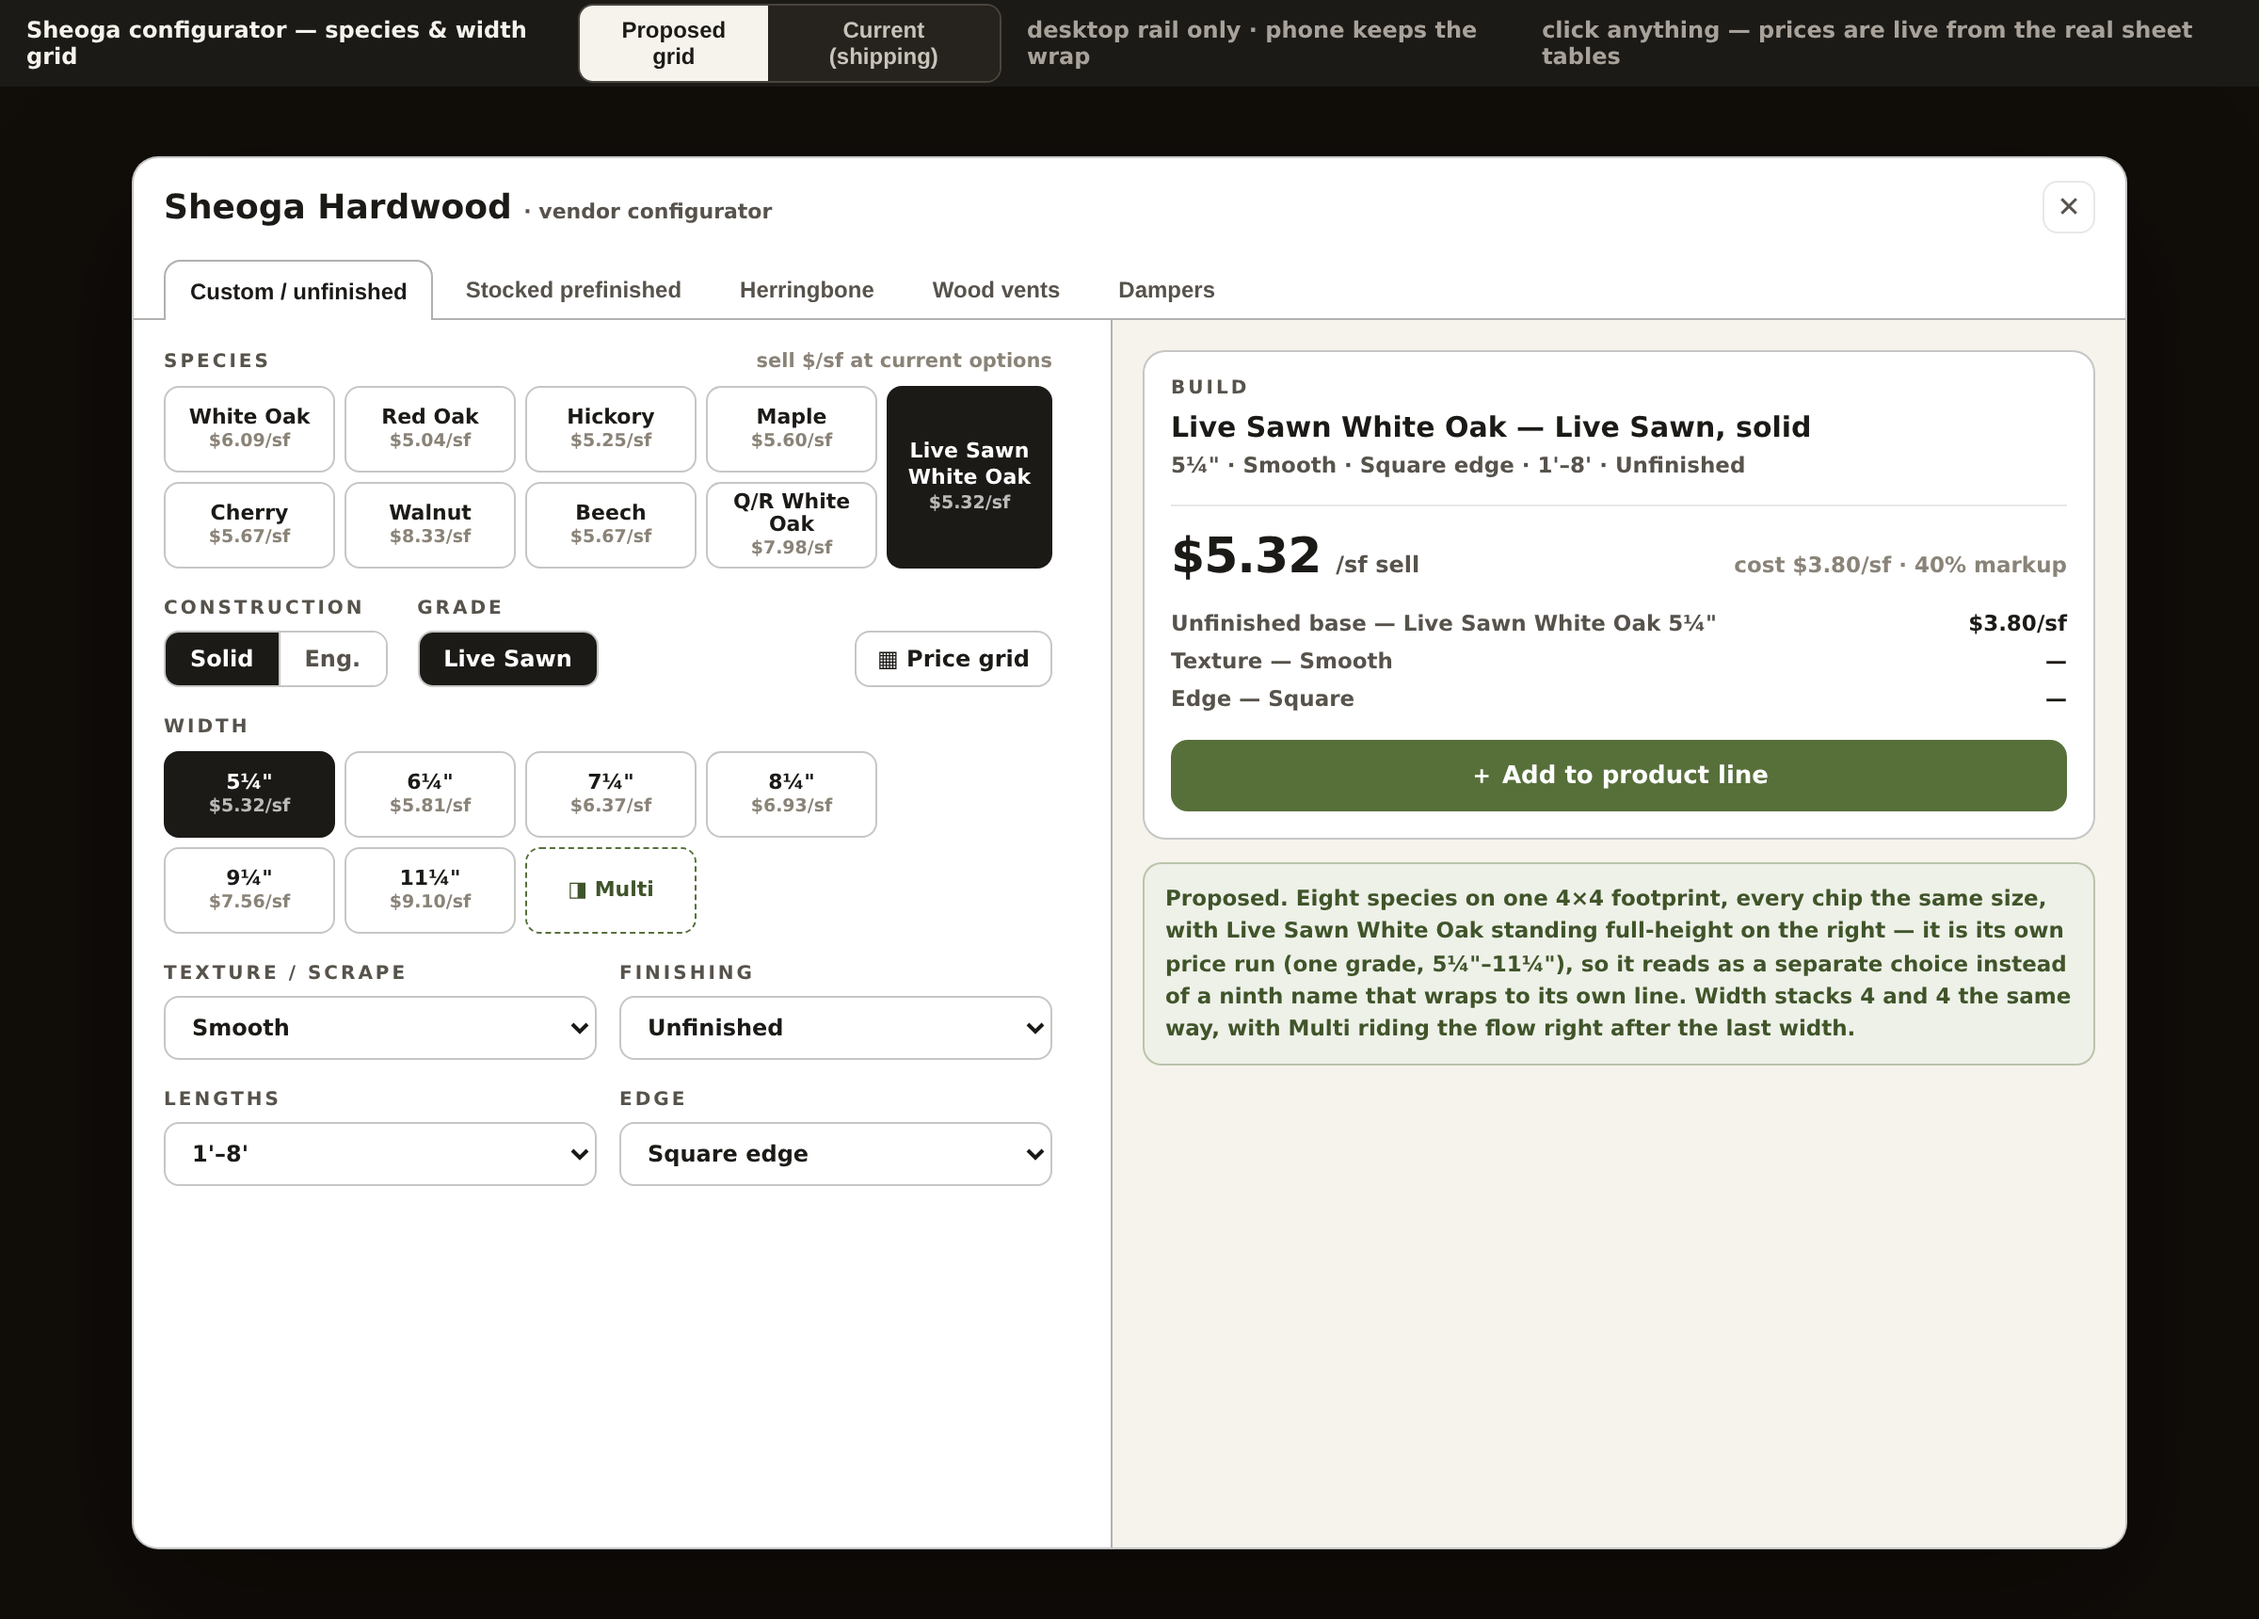
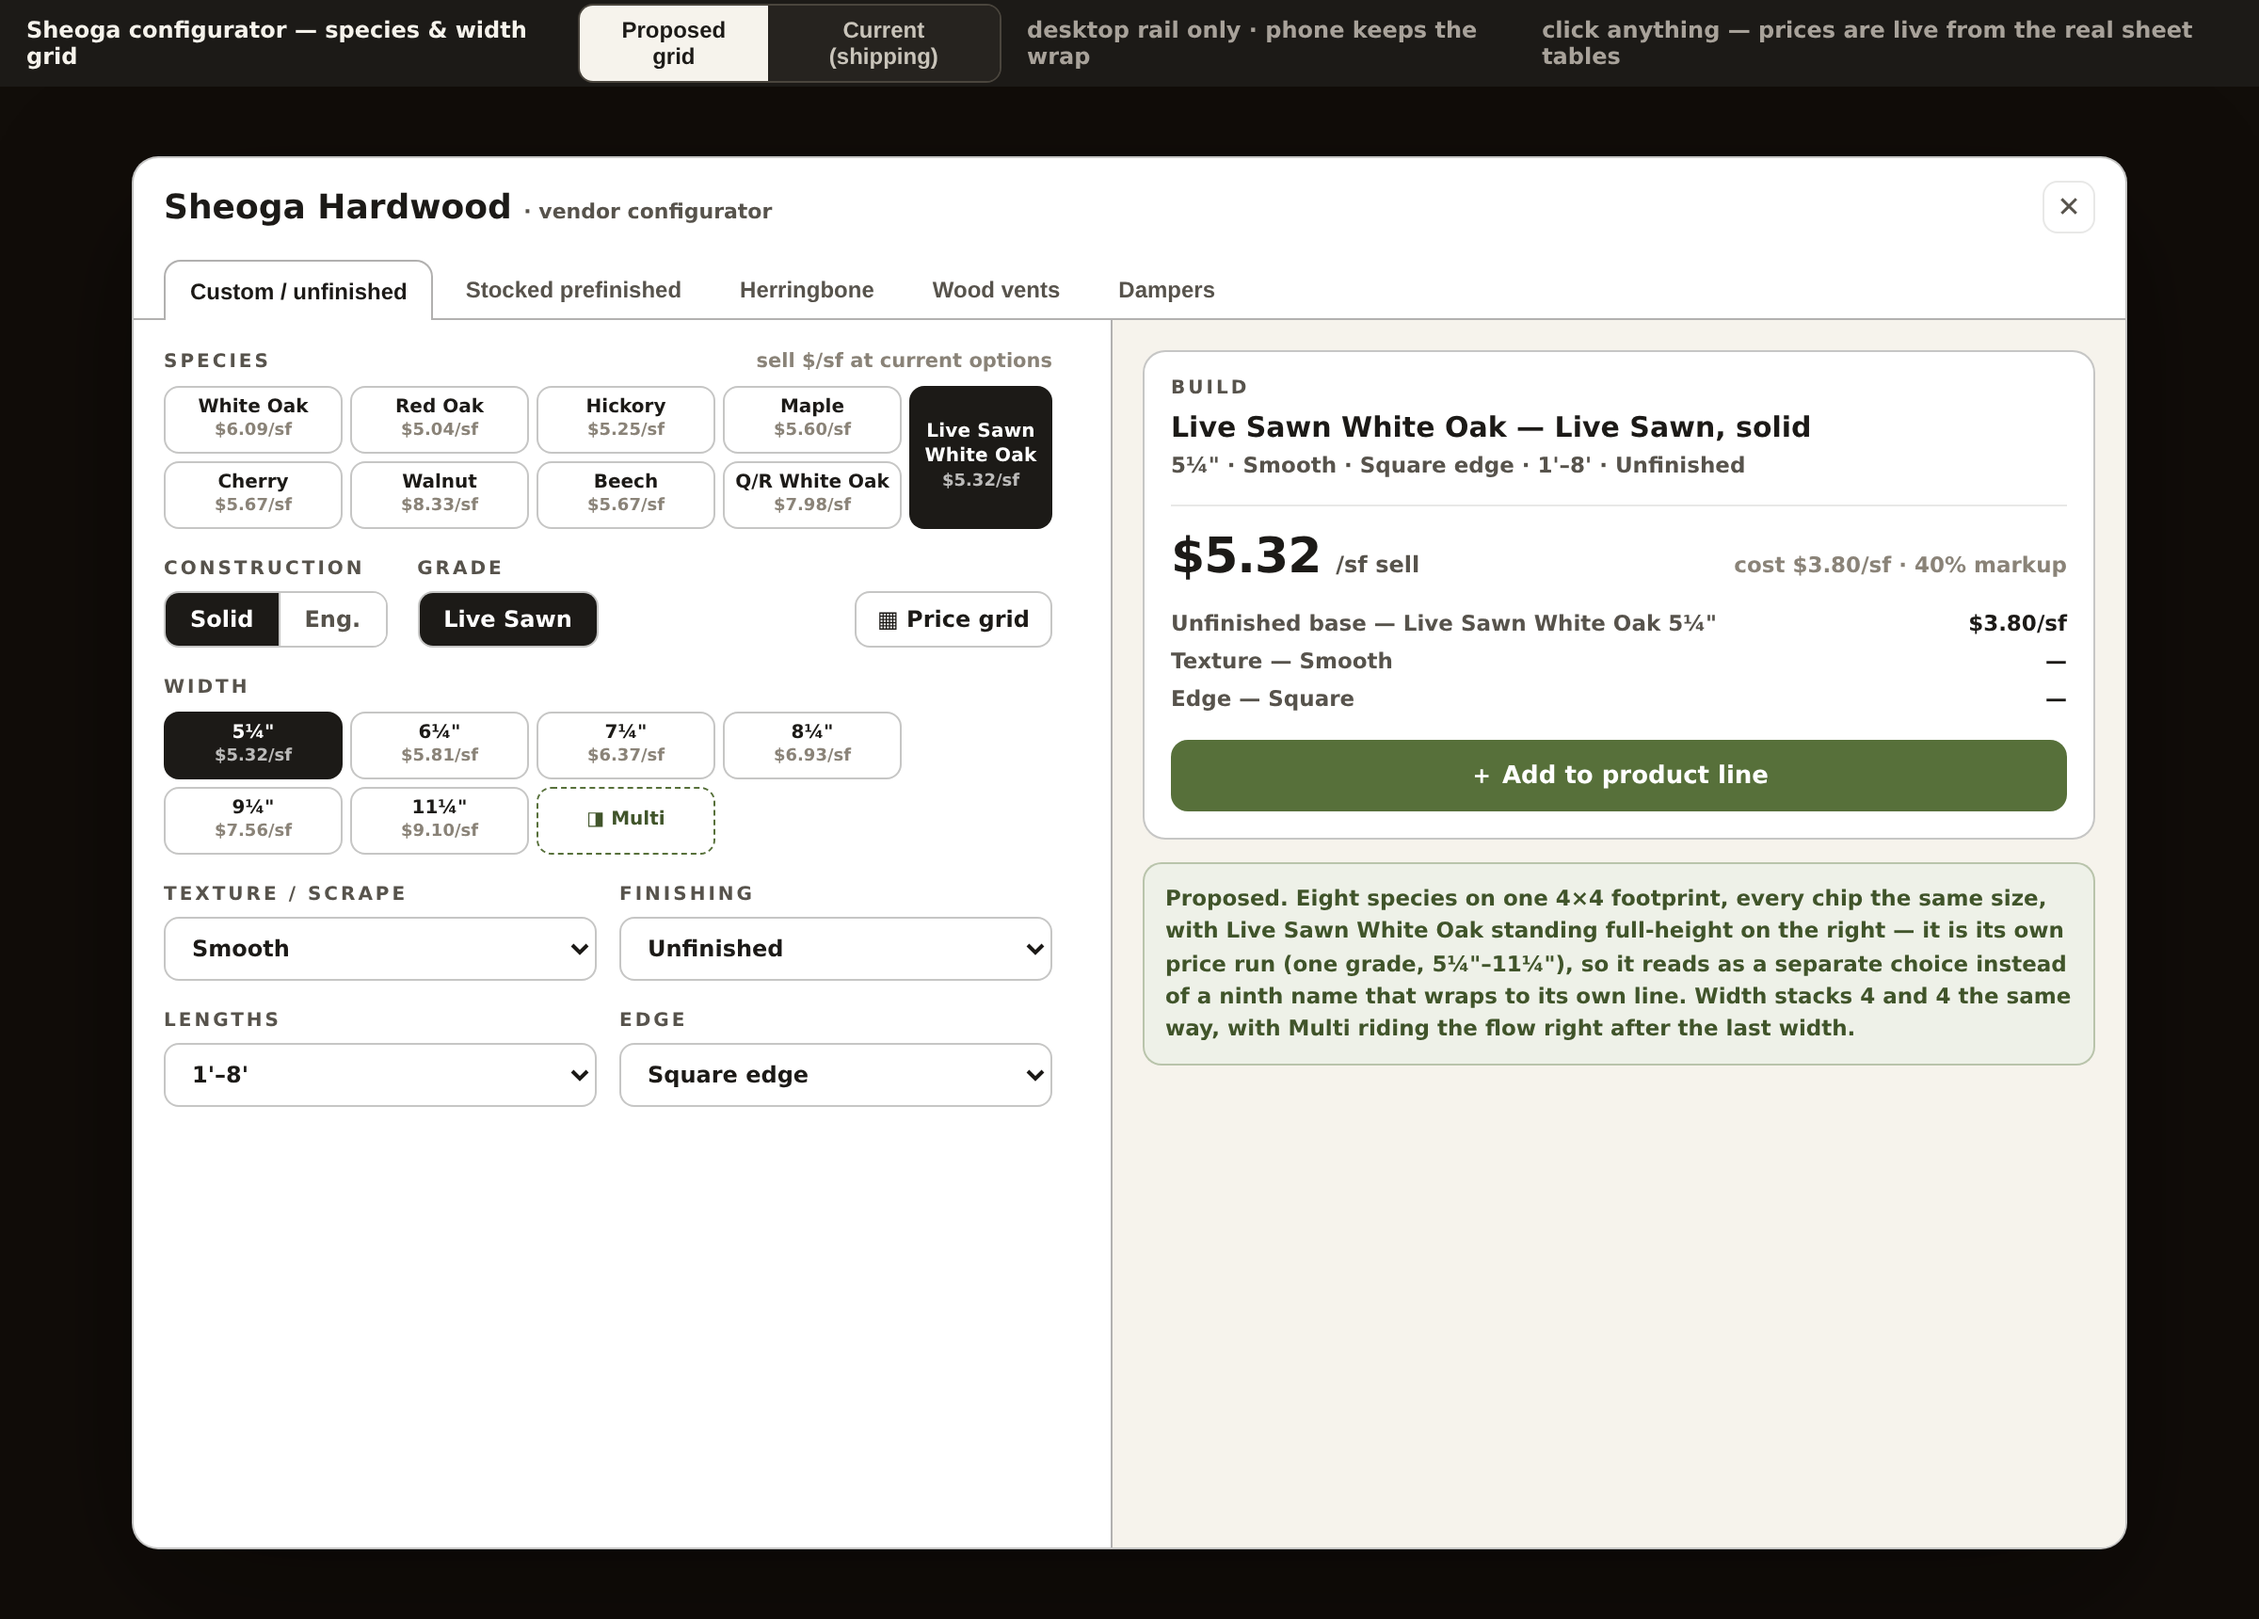
Sheoga grid prototype: fit Q/R White Oak on one line, compact the rows
Narrowing the Live Sawn column to 76px leaves the four species columns at
95px, enough for the longest name at the 10px label size. With nothing
wrapping, rows drop to 36px and the species block is 76px tall against 97.

Claude-Session: https://claude.ai/code/session_014oS5jGcPH7YKZAfqLVJkVP

Changed region(s): [[0.0625, 0.2157, 0.4688, 0.7395]]

diff --git a/.scratch/059_sheoga-species-width-grid/mockup.html b/.scratch/059_sheoga-species-width-grid/mockup.html
@@ -57,12 +57,12 @@
   /* proposed layout: 4 equal columns + a full-height chip on the right.
      Rows are an explicit fixed height so the spanning chip can never stretch
      row 1; the 5th column is wide enough to set its label horizontally. */
-  .grid4{display:grid;grid-template-columns:repeat(4,minmax(0,1fr)) 88px;grid-template-rows:repeat(2,46px);gap:5px;align-items:stretch}
-  .grid4 .chip{display:flex;flex-direction:column;align-items:center;justify-content:center;min-height:0;padding:4px 5px;font-size:11px;line-height:1.1}
-  .grid4 .chip .s{font-size:9.5px;margin-top:2px}
-  .tall{grid-column:5;grid-row:1 / -1;padding:5px 6px;display:flex;flex-direction:column;align-items:center;justify-content:center;gap:1px;overflow:hidden}
-  .tall .vl{font-size:11px;line-height:1.22;white-space:pre;letter-spacing:.01em}
-  .tall .vs{font-size:9.5px;font-weight:700;color:var(--ft-faint);margin-top:2px}
+  .grid4{display:grid;grid-template-columns:repeat(4,minmax(0,1fr)) 76px;grid-template-rows:repeat(2,36px);gap:4px;align-items:stretch}
+  .grid4 .chip{display:flex;flex-direction:column;align-items:center;justify-content:center;min-height:0;padding:3px 5px;font-size:10px;line-height:1.25;white-space:nowrap}
+  .grid4 .chip .s{font-size:9px;margin-top:1px}
+  .tall{grid-column:5;grid-row:1 / -1;padding:4px 6px;display:flex;flex-direction:column;align-items:center;justify-content:center;gap:0;overflow:hidden}
+  .tall .vl{font-size:10px;line-height:1.3;white-space:pre;letter-spacing:.01em}
+  .tall .vs{font-size:9px;font-weight:700;color:var(--ft-faint);margin-top:2px}
   .tall.on .vs{color:rgba(255,255,255,.7)}
   .tall.ls{border-color:var(--ft-border-strong)}
 
@@ -345,7 +345,7 @@ function renderWidth(){
     const g = el("div", "grid4");
     // Four and four, exactly like Species; Multi rides the flow as an ordinary
     // chip right after the last width.
-    g.style.gridTemplateRows = "repeat(" + Math.max(2, Math.ceil((ws.length + 1) / 4)) + ", 46px)";
+    g.style.gridTemplateRows = "repeat(" + Math.max(2, Math.ceil((ws.length + 1) / 4)) + ", 36px)";
     ws.forEach((w, i) => { const c = mkChip(w); place(c, i); g.appendChild(c); });
     const m = chip("◨ Multi" + (st.multi ? " ✓" : ""), null, {on: st.multi, cls:"multiflat"});
     m.onclick = () => { st.multi = !st.multi; render(); };

diff --git a/.scratch/059_sheoga-species-width-grid/README.md b/.scratch/059_sheoga-species-width-grid/README.md
@@ -14,8 +14,8 @@
 Both blocks become one grid instead of a free-wrapping chip row:
 
 ```
-grid-template-columns: repeat(4, 1fr) 88px;   /* 4 equal cells + the tall column */
-grid-template-rows:    repeat(2, 46px);       /* two lines, fixed height          */
+grid-template-columns: repeat(4, 1fr) 76px;   /* 4 equal cells + the tall column */
+grid-template-rows:    repeat(2, 36px);       /* two lines, fixed height          */
 ```
 
 - **Species** — the eight sheet species (White Oak · Red Oak · Hickory · Maple /
@@ -23,9 +23,11 @@ grid-template-rows:    repeat(2, 46px);       /* two lines, fixed height        
   same width and height regardless of name length. **Live Sawn White Oak** sits
   in the 5th column, `grid-row: 1 / -1`, so it is exactly as tall as the two
   rows beside it. Its label is set horizontally, stacked "Live Sawn / White Oak"
-  over its sell price; the column is 88px wide to hold that, and the four
-  regular columns give up the difference — chips are tighter both ways (46px
-  rows, 11px label) than the wrapping version they replace.
+  over its sell price. That column is held to 76px — the narrowest that still
+  fits "White Oak" at the 10px label size — which leaves the four regular
+  columns at 95px, wide enough that **"Q/R White Oak" sets on one line**. With
+  no name wrapping, a row only needs 36px, so the whole species block is 76px
+  tall against 97px in the first pass and ~135px in the shipping wrap.
 - **Width** — same 4-and-4 stack on the same module (widths keep to columns 1–4
   so a width chip is exactly a species chip), and the **Multi** chip stays an
   ordinary in-flow chip right after the last width, in its dashed-green
@@ -39,8 +41,9 @@ than a ninth name in the same list.
 ## Desktop only
 
 The grid is the ≥768px rail. The phone sheet keeps the wrapping chips (a fixed
-4-wide grid at 390px would make each cell ~70px, too narrow for
-"Q/R White Oak" plus a price).
+4-wide grid at 390px would make each cell ~75px, and "Q/R White Oak" needs 82px
+before padding — so the phone would be back to wrapped names in half-height
+chips).
 
 ## Shots
 
@@ -60,6 +63,11 @@ computed from the real `src/sheoga.js` tables at the shop's 40% flooring markup.
 Touches `FloorRail` / `StockedRail` in `src/SheogaConfigurator.jsx` only —
 `Chips` and `WidthRow` grow a grid variant behind the existing `useIsWide`
 switch. No engine, pricing, or data change; `sheoga.js` is untouched.
+
+Row height is a fixed 36px and chip labels are `white-space: nowrap`, so the
+block's compactness rests on every species name fitting 95px at 10px/800 —
+"Q/R White Oak" is the longest at 82px. A longer name added to the sheet would
+clip rather than wrap; that's the trade for the height.
 
 Two things to eyeball before it ships: the **Stocked prefinished** tab has 4
 species and 4–5 widths, so the same grid reads differently there; and the width
